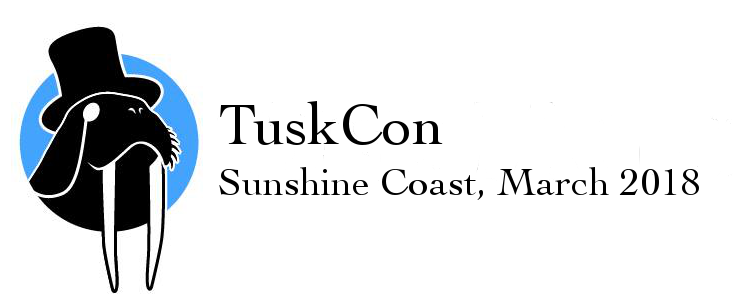
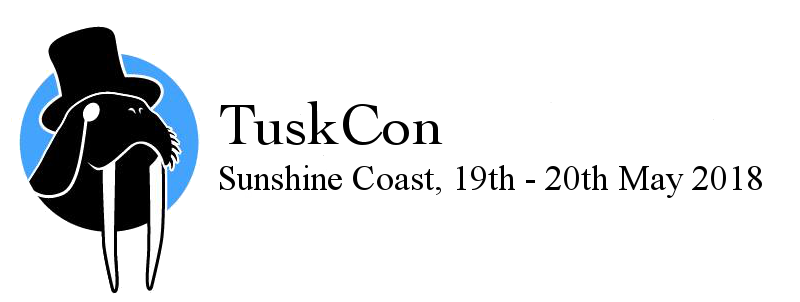
Updated website to include the announced conference dates

Changed region(s): [[0.0, 0.0894, 0.9604, 0.9834]]

diff --git a/index.html b/index.html
@@ -1,6 +1,24 @@
+
 <!DOCTYPE html>
 <html lang="en">
-  <head>
+  <!--
+               ___
+            .-9 9 `\
+          =(:(::)=  ;
+            ||||     \
+            ||||      `-.
+           ,\|\|         `,
+          /                \
+         ;                  `'---.,
+         |                         `\
+         ;                     /     |
+         \                    |      /
+  jgs     )           \  __,.--\    /
+       .-' \,..._\     \`   .-'  .-'
+      `-=``       `:    |  /-/-/`
+                    `.__/
+		-->
+		<head>
     <meta charset="utf-8">
     <title>TuskCon 2018</title>
     <meta name="viewport" content="width=device-width, initial-scale=1.0">
@@ -65,7 +83,7 @@ seized by customs should get in touch.</p>
 
       <div id="wherewhen">
          <h2>Location & date</h2>
-         <p>The con will be held at a beachside location in March 2018. Discussions with venues are currently underway - once we have negotiated a deal and made a booking, we will announce a more concrete location and date. Our preferred venue is a 1.5 hour drive from Brisbane, with public transport from both Brisbane and Sunshine Coast airports. It is also accessible by jet ski.</p>
+         <p>The con will be held at a beachside location on the 19th and 20th of May . Discussions with venues are currently underway - once we have negotiated a deal and made a booking, we will announce a more concrete location and date. Our preferred venue is a 1.5 hour drive from Brisbane, with public transport from both Brisbane and Sunshine Coast airports. It is also accessible by jet ski.</p>
       </div>
 
       <div id="program">
